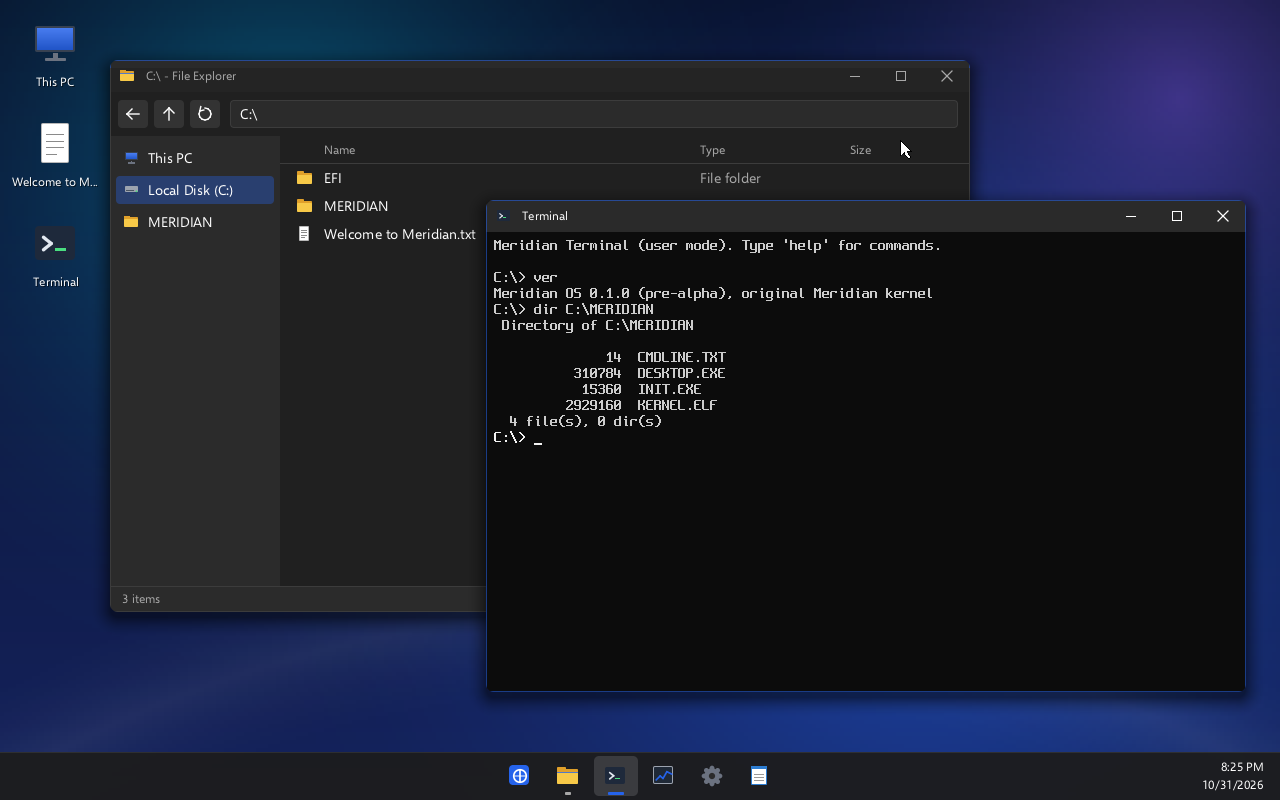
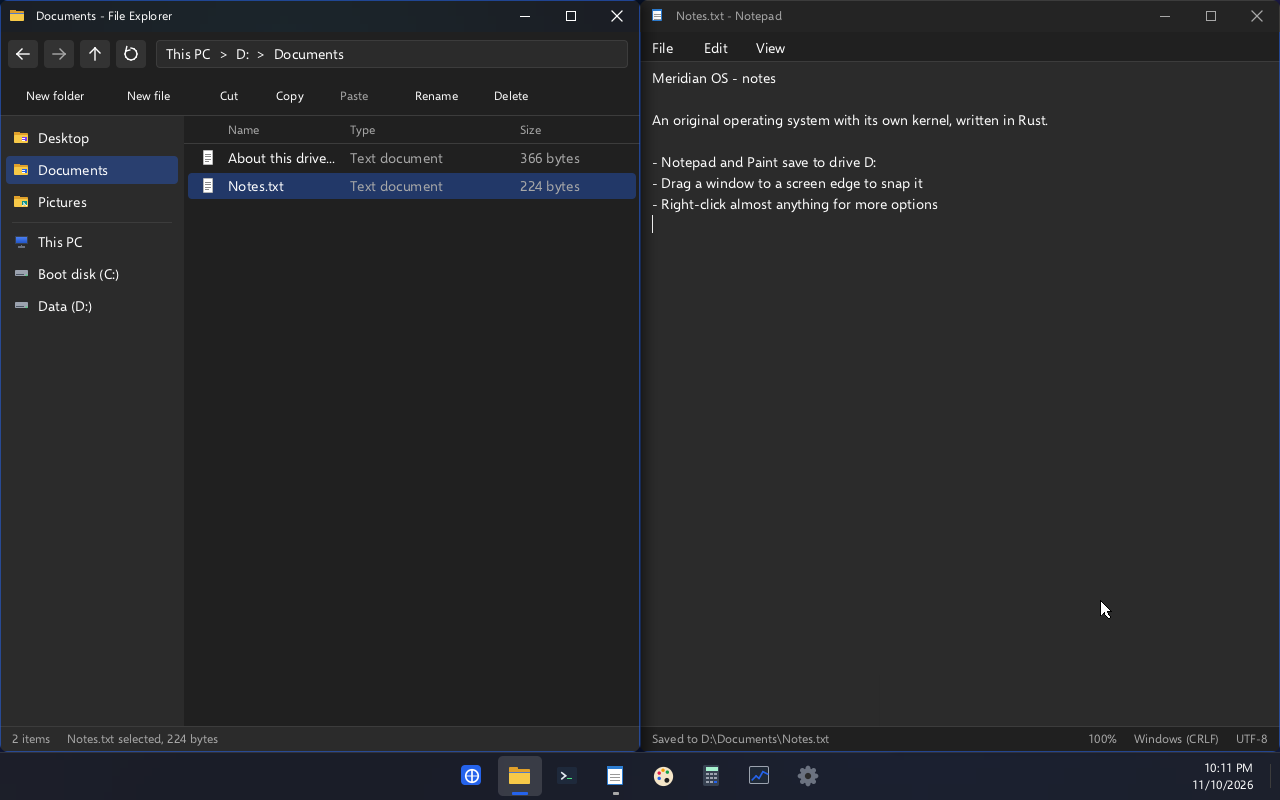
Document the data drive, the new apps and the richer desktop
STATUS, ROADMAP, ARCHITECTURE (storage write design), TESTING (the new
walk-through and fatcheck), README (screenshots, status table, data
disk), the welcome file and CLAUDE.md now describe what Meridian does
today. The README gets a Start menu screenshot next to the desktop.

diff --git a/tools/mbuild.py b/tools/mbuild.py
@@ -322,17 +322,21 @@ WELCOME_TEXT = """Welcome to Meridian OS!
 
 You are reading this file from the boot disk through Meridian's own AHCI
 disk driver, GPT partition reader and FAT32 file system (with long file
-names), all written from scratch for this kernel. Storage is read-only for
-now, so nothing here can change a disk.
+names), all written from scratch for this kernel. This boot drive (C:) is
+read-only; your own files go on drive D:, Meridian's data drive.
 
 Things to try on the desktop:
   - Open Start (the taskbar button or the Windows key) and type to search.
-  - File Explorer: browse C:\\ and open files and programs.
-  - Terminal: dir, type, ps, threads, mem, run C:\\MERIDIAN\\INIT.EXE
-  - Task Manager: live processes, kernel threads and processor use.
-  - Settings: dark or light mode, accent colour, wallpaper, taskbar alignment.
-  - Drag a window by its title bar; double-click the title bar to maximise.
-  - Alt+Tab switches windows, Alt+F4 closes one.
+  - Notepad: write something and press Ctrl+S to save it in D:\\Documents.
+  - Paint: draw a picture and save it; Photos shows it in its gallery.
+  - File Explorer: new folders, rename (F2), copy and paste, delete.
+  - Right-click the desktop, a file, a taskbar button or a title bar.
+  - Drag a window to the left or right edge of the screen to snap it, or
+    use Windows key + arrow keys. Drag an edge to resize.
+  - Click the clock for the calendar; Windows key + L locks the screen.
+  - Terminal: help, dir, mkdir, copy, move, del, drives, ps, threads, mem
+  - Calculator, Clock (stopwatch and timer), Minesweeper and 2048.
+  - Settings: dark or light mode, accent colour, wallpaper (saved on D:).
   - Start > Power shuts Meridian down or restarts it.
 
 In the kernel's text shell (boot with "nodesktop", or type in the serial

diff --git a/docs/STATUS.md b/docs/STATUS.md
@@ -52,28 +52,56 @@ the self tests or was verified manually in QEMU as noted.
 * Desktop (`system/desktop`, a user-mode PE32+ program started at boot from
   `C:\MERIDIAN\DESKTOP.EXE`): it takes over the screen, keyboard and mouse
   and draws everything itself (software compositor with damage tracking,
-  TrueType text, rounded corners and shadows). Working: window manager
-  (focus, z-order, drag, minimise/maximise/close, double-click title to
-  maximise, Alt+Tab, Alt+F4), taskbar with pinned and running apps and a
-  live clock, Start menu with search, pinned apps, recommended files from
-  the disk and Shut down/Restart, desktop icons, mouse wheel scrolling. Apps:
-  File Explorer (drives, folders, opening text files and programs), Terminal
-  (dir, cd, type, run, ps, threads, mem, date, ...), Notepad (opens text
-  files; edits stay in memory because storage is read-only), Task Manager
-  (processes, live CPU graph and memory, kernel threads), Settings (light/dark
-  mode, accent colour, wallpaper, taskbar alignment; not saved across
-  restarts) and About. Verified by the `ui` walk-through in CI. When the
-  desktop exits, the kernel console takes the screen back.
+  TrueType text, rounded corners, shadows, and a "Mica" material: the
+  taskbar, Start menu, flyouts, menus and the focused title bar are drawn
+  over a blurred copy of the wallpaper). Shell: window manager (focus,
+  z-order, drag, resize from any edge or corner, minimise/maximise/close,
+  double-click title to maximise, snap to the left/right half or maximise by
+  dragging to a screen edge, Win+arrows, Alt+Tab, Alt+F4), taskbar with
+  pinned and running apps, tooltips, a live clock with a calendar flyout and
+  a Show desktop button; Start menu with search over apps and files,
+  pinned apps, recommended files and Lock/Restart/Shut down; desktop icons
+  including the files in `D:\Desktop`; right-click menus on the desktop,
+  icons, taskbar buttons, title bars and inside apps; notifications; a lock
+  screen (Win+L; there are no accounts, so no password); keyboard shortcuts
+  Win, Win+D/E/R/L/I, Ctrl+Shift+Esc; settings saved in
+  `D:\Meridian\settings.ini`.
+* Desktop apps (all using real system calls): File Explorer (quick access,
+  drives with free space, folders, open with the right app, new
+  folder/file, cut/copy/paste including whole folders, rename in place,
+  delete with confirmation, back/forward/up, type-to-select), Notepad
+  (open, save, save as, selection with mouse and keyboard, clipboard,
+  undo, time/date, zoom, keeps CRLF or LF, asks to save on close), Terminal
+  (dir, cd, type, mkdir, del, rmdir, copy, move, ren, `echo text > file`,
+  drives, run, open, starting apps, ps, threads, mem, uptime, date; command
+  history and paste), Calculator (standard operations, percent, square,
+  square root, reciprocal, history, keyboard input), Paint (pencil, brush,
+  eraser, line, rectangle, ellipse, fill, colour picker, 20-colour palette,
+  sizes, undo/redo, open and save 24-bit BMP), Photos (gallery of a folder,
+  viewer with next/previous, fit/actual size, Edit in Paint), Clock (analog
+  and digital clock, stopwatch with laps, countdown timer with a
+  notification), Task Manager (processes, live CPU graph and memory, kernel
+  threads), Settings (light/dark mode, accent colour, wallpaper, taskbar
+  alignment, drive usage, system information), Minesweeper (three levels,
+  flags, chording) and 2048. Verified by the `ui` walk-through in CI. When
+  the desktop exits, the kernel console takes the screen back.
 * PE32+ loader: header validation, section mapping with per-section
   protections, DIR64 base relocations (images are loaded 256 MiB above their
   preferred base, so relocation is always exercised), stack sizing.
 * Native runtime (`runtime/rt`) and the first program `init.exe`
   (`system/init`), read from `C:\MERIDIAN\INIT.EXE` and run at every boot
   (the boot manager's copy is the fallback).
-* Storage (read-only by design): AHCI SATA driver (IDENTIFY, 48-bit DMA
-  reads through a 64 KiB bounce buffer, polled completion, BIOS/OS handoff),
-  GPT and MBR partition discovery, FAT32 file system with long file names,
-  short-name aliases and corruption checks, drive letters from `C:`.
+* Storage: AHCI SATA driver (IDENTIFY, 48-bit DMA reads and writes through
+  a 64 KiB bounce buffer, cache flush, polled completion, BIOS/OS handoff),
+  GPT and MBR partition discovery, FAT32 with long file names, short-name
+  aliases and corruption checks, drive letters from `C:`. Writing (create,
+  replace, delete, rename/move, folders) is allowed only on partitions with
+  Meridian's own data-partition type GUID, so a disk prepared by another
+  operating system is never modified; the boot drive `C:` stays read-only.
+  The build attaches such a data disk as `D:` (`build/data.img`, kept
+  between runs). After every test run, `tools/fatcheck.py` checks the data
+  disk independently (FAT copies, chains, cross-links, lost clusters, long
+  names, "." and "..").
 * Kernel shell: help, ver, cpu, mem, acpi, pci, irq, threads, ps, run, disks,
   vol, dir, type, uptime, log, clear, selftest, reboot, shutdown, crash.
 * Build: reproducible GPT/FAT32 image writer, QEMU runner, self-test harness,
@@ -85,10 +113,10 @@ the self tests or was verified manually in QEMU as noted.
 ## Not implemented yet
 
 Multi-threaded user processes, object namespace and access checks, PE
-imports/TLS, writing to disks, NVMe, NTFS, USB, networking, audio, GPU
-acceleration, Windows compatibility (Win32), windows for programs other than
-the built-in apps, saving settings, user accounts, installer. See
-[ROADMAP.md](ROADMAP.md).
+imports/TLS, NTFS, NVMe, USB, networking, audio, GPU acceleration, Windows
+compatibility (Win32), windows for programs other than the built-in apps,
+user accounts and passwords, a recycle bin, PNG/JPEG images, installer.
+See [ROADMAP.md](ROADMAP.md).
 
 ## Known limitations
 
@@ -105,9 +133,15 @@ the built-in apps, saving settings, user accounts, installer. See
   driver.
 * Without the vmmouse protocol (real hardware, or `novmmouse`), the PS/2
   mouse is relative and has no wheel.
-* Storage is read-only and polled (no AHCI interrupts or command queuing);
-  only FAT32 is recognised, so the EFI system partition becomes `C:`;
-  optical drives are skipped.
+* Storage is polled (no AHCI interrupts or command queuing); only FAT32 is
+  recognised, so the EFI system partition becomes `C:`; only Meridian data
+  partitions are writable (by design); files are read and written whole
+  (64 MiB per write, 256 MiB per read); optical drives are skipped.
+* Deleting is permanent (there is no recycle bin yet); Explorer asks first.
+* Paint saves and Photos opens 24-bit BMP only (no PNG/JPEG decoder yet).
+* Under QEMU on Windows, guest timer interrupts arrive at the host's timer
+  resolution (15.6 ms unless another program raises it), so short timeouts
+  are coarse; the kernel's clock and the desktop cope with late ticks.
 * Every TLB shootdown interrupts all other processors (no tracking of which
   processors might cache the address).
 * The direct map uses 2 MiB pages across all physical memory below the top of
@@ -145,9 +179,13 @@ None open. Fixed during bring-up (2026-10-31):
 
 ## Failed tests
 
-None. Latest local runs: 48/48 self tests passed (debug and release,
-4 vCPUs); the desktop walk-through (`mbuild.py ui`, 11 steps ending in
-Start > Shut down) passed in debug and release.
+None. Latest local runs (2026-11-10): 52/52 self tests passed (debug and
+release, 4 vCPUs) with the test data disk consistent afterwards; the
+desktop walk-through (`mbuild.py ui`, 15 steps through every major app,
+ending in Start > Power > Shut down) passed with the absolute and the
+relative pointer. The clock test was widened from 50 ms to 200 ms after it
+failed on a Windows host at the default 15.6 ms timer resolution (the
+previous commit failed the same way on the same host).
 
 ## Real hardware tested
 

diff --git a/README.md b/README.md
@@ -10,9 +10,11 @@ telemetry.
 It is **not** a Linux distribution, not a Windows derivative and not a themed
 desktop on top of another OS. Every line of the kernel is original.
 
-![The Meridian desktop in QEMU: File Explorer and Terminal](docs/images/desktop.png)
+![The Meridian desktop in QEMU: File Explorer and Notepad snapped side by side](docs/images/desktop.png)
 
-## Status: early kernel and first desktop (pre-alpha)
+![The Start menu with search, pinned apps and recommended files](docs/images/start.png)
+
+## Status: early kernel and a working desktop (pre-alpha)
 
 Meridian is at the very beginning of a long road. What exists today, all
 tested on every commit in QEMU with UEFI firmware:
@@ -31,21 +33,24 @@ tested on every commit in QEMU with UEFI firmware:
 | Events, semaphores, mutexes, timed waits, sleep | ✅ working |
 | Multiprocessor: all cores started, IPIs, TLB shootdown, multicore scheduling | ✅ working |
 | User mode: isolated processes, system calls, handles, PE32+ loader | ✅ working (first native program runs) |
-| Storage: AHCI SATA driver, GPT/MBR partitions, FAT32 with long names, drive letters (read-only) | ✅ working |
+| Storage: AHCI SATA driver, GPT/MBR partitions, FAT32 with long names, drive letters | ✅ working |
+| Saving files: FAT32 writes on Meridian's own data partitions (drive D:) | ✅ working (QEMU) |
 | PS/2 mouse (absolute in VMs), real-time clock | ✅ working |
-| Desktop: windows, taskbar, Start menu with search, File Explorer, Terminal, Notepad, Task Manager, Settings | ✅ working (QEMU) |
-| Writable storage, NTFS, NVMe, USB | 🚧 next |
+| Desktop: Mica taskbar and Start menu with search, resizable and snappable windows, right-click menus, notifications, calendar, lock screen | ✅ working (QEMU) |
+| Apps: File Explorer, Notepad, Terminal, Calculator, Paint, Photos, Clock, Task Manager, Settings, Minesweeper, 2048 | ✅ working (QEMU) |
+| NTFS, NVMe, USB | 🚧 next |
 | Win32 subsystem, windows for other programs, networking, GPU… | 📋 planned |
 
 At every boot the kernel runs `init.exe` and then the desktop
 (`DESKTOP.EXE`), both PE32+ programs read from the boot disk and running in
 ring 3; a program that crashes is terminated without affecting the kernel.
-The desktop is real, not a mock-up: the File Explorer lists the actual disk,
-Task Manager shows the kernel's live threads and processor use, Settings
-changes the theme, and Start > Power shuts the machine down. Its apps are
-built into the desktop program for now. Nothing runs Windows applications
-yet (the Win32 subsystem does not exist), files cannot be saved (storage is
-read-only), and no real hardware has been tested yet. See [docs/STATUS.md](docs/STATUS.md) for the
+The desktop is real, not a mock-up: File Explorer works on the actual
+disks, Notepad and Paint save to drive D:, Task Manager shows the kernel's
+live threads and processor use, Settings are remembered, and Start > Power
+shuts the machine down. Its apps are built into the desktop program for
+now. Nothing runs Windows applications yet (the Win32 subsystem does not
+exist), and no real hardware has been tested yet. Meridian only ever writes
+to partitions of its own type, so it cannot change another system's disk. See [docs/STATUS.md](docs/STATUS.md) for the
 precise feature list, known bugs and test results, and
 [docs/ROADMAP.md](docs/ROADMAP.md) for the plan.
 
@@ -68,9 +73,12 @@ python tools/mbuild.py run --release
 ```
 
 That builds the boot manager, kernel and user programs, writes a bootable
-GPT disk image to `build/meridian.img` and boots it in a QEMU window. Build
-output stays small (under 20 MB in `target/` plus the 48 MB disk image) and
-`python tools/mbuild.py clean` removes all of it. The kernel's own text
+GPT disk image to `build/meridian.img` and boots it in a QEMU window, with a
+second virtual disk, `build/data.img`, as drive D: for your files. The data
+disk is created once and kept between runs and rebuilds (delete it to start
+over). Build output stays small (under 25 MB in `target/` plus the 48 MB
+boot image and 64 MB data disk), and `python tools/mbuild.py clean`
+removes everything except your data disk. The kernel's own text
 shell is still there: type its commands (`help`, `threads`, `cpu`, `mem`,
 `disks`, ...) in the terminal that started QEMU, or boot with
 `--cmdline nodesktop` to get it on screen.

diff --git a/docs/ROADMAP.md b/docs/ROADMAP.md
@@ -38,7 +38,7 @@ Update this file whenever a milestone moves.
 * ⬜ PCIe ECAM, MSI/MSI-X, interrupt-driven I/O
 * ✅ Storage: AHCI SATA (read-only, polled); ⬜ NVMe, virtio-blk, writes
 * ✅ Partitions: GPT and MBR primary entries
-* ✅ Volumes with drive letters; FAT32 read-only with long file names; ⬜ FAT write, FAT12/16, exFAT; NTFS read-only first
+* ✅ Volumes with drive letters; FAT32 with long file names; ✅ FAT32 writes on Meridian data partitions (independently checked by tools/fatcheck.py); ⬜ FAT12/16, exFAT; NTFS read-only first
 * ✅ PS/2 mouse (absolute "vmmouse" mode under hypervisors); CMOS real-time clock
 * ⬜ USB: xHCI, HID keyboard/mouse
 * ⬜ ACPI AML interpreter (evaluate a vetted existing implementation vs. own)
@@ -57,8 +57,8 @@ Update this file whenever a milestone moves.
 * ✅ GOP framebuffer handed to a user-mode program (display ownership, input capture); ⬜ display driver interface; virtio-gpu
 * ✅ Software compositor (damage tracking, shadows, rounded corners) + window manager inside the desktop process; ⬜ window-system protocol so other processes can open windows
 * ✅ TrueType rasterizer and UI drawing in Rust (Selawik font, OFL); light/dark themes, accent colours, wallpapers; ⬜ shared UI toolkit library for other programs; ⬜ saving settings
-* ✅ Desktop shell: taskbar, Start menu with search, Alt+Tab, Alt+F4, desktop icons, power menu; ⬜ tray, notifications, snapping, resizing by the window edges, virtual desktops, lock/login screens
-* ✅ File Explorer, Terminal, Notepad, Task Manager, Settings, About (every control wired to real functionality); ⬜ saving files (needs writable storage)
+* ✅ Desktop shell: Mica taskbar and Start menu (search over apps and files), Alt+Tab, Alt+F4, desktop icons, power menu, notifications, snapping, resizing, right-click menus, calendar flyout, lock screen, Win+key shortcuts, saved settings; ⬜ tray, virtual desktops, login with accounts, animations
+* ✅ File Explorer (file operations), Terminal, Notepad (save), Calculator, Paint, Photos, Clock, Task Manager, Settings, Minesweeper, 2048 (every control wired to real functionality); ⬜ recycle bin, PNG/JPEG, more apps
 
 ## Phase 7 — Windows compatibility ⬜
 
@@ -97,14 +97,14 @@ Update this file whenever a milestone moves.
 
 ## Next session starts here
 
-1. Desktop polish: resize windows by their edges, window snapping, keyboard
-   focus inside apps (Tab), a scroll bar in Explorer and Notepad.
-2. A window-system protocol (shared-memory surfaces + an event channel) so
+1. A window-system protocol (shared-memory surfaces + an event channel) so
    programs other than the built-in apps can open windows; then move the
-   UI drawing code into a shared library.
-3. User-mode thread creation and multi-threaded process termination.
-4. PE imports (a native `msys.dll` loaded from `C:\MERIDIAN`), which is
+   UI drawing code into a shared library and the apps into their own
+   processes.
+2. User-mode thread creation and multi-threaded process termination.
+3. PE imports (a native `msys.dll` loaded from `C:\MERIDIAN`), which is
    also the first step towards loading Win32 DLLs.
-5. Writable storage (FAT32 writes on a separate test disk image first) so
-   Notepad and Settings can save; then MSI interrupts for AHCI, NVMe and USB
-   (xHCI + HID + mass storage) to reach real hardware.
+4. Recycle bin, PNG/JPEG decoding, file handles (open/read/write ranges)
+   instead of whole-file calls.
+5. MSI interrupts for AHCI, NVMe and USB (xHCI + HID + mass storage) to
+   reach real hardware.

diff --git a/docs/ARCHITECTURE.md b/docs/ARCHITECTURE.md
@@ -98,18 +98,36 @@ the kernel shell). When the process exits or crashes, the kernel takes the
 screen and keyboard back. Inside the process:
 
 * `gfx.rs` — canvases, clipping, alpha blending, anti-aliased lines,
-  rounded rectangles, soft shadows;
+  rounded rectangles, soft shadows, scaling, the blur behind "Mica";
 * `font.rs` — a TrueType parser and rasterizer (quadratic outlines,
   signed-area coverage accumulation) with a glyph cache, plus the Spleen
   bitmap font for the Terminal;
-* `ui.rs` — theme colours, vector icons, wallpapers, the pointer;
-* `apps.rs` — File Explorer, Terminal, Notepad, Task Manager, Settings,
-  About, all using real system calls (directory listing, file reading,
-  process creation, thread/process queries, time, power);
-* `main.rs` — window manager, taskbar, Start menu, desktop icons and the
-  compositor: every window has its own surface, damaged screen areas are
-  recomposed into a back buffer and copied to the framebuffer, and the
-  pointer is drawn directly on the framebuffer.
+* `ui.rs` — theme colours (and their settings-file form), vector icons,
+  wallpapers, the pointer;
+* `widgets.rs` — text field and prompt bar; `bmp.rs` — BMP reading/writing;
+* `apps.rs` — what apps share with the shell (the `App` trait, actions
+  such as opening apps, menus and notifications, the clipboard), plus
+  Terminal, Task Manager, Settings and About; `explorer.rs`, `notepad.rs`,
+  `calc.rs`, `paint.rs`, `photos.rs`, `clock.rs`, `games.rs` — the other
+  apps, all using real system calls (files, processes, threads, time,
+  power);
+* `main.rs` — the shell: window manager, taskbar, Start menu, flyouts,
+  menus, notifications, lock screen, desktop icons and the compositor:
+  every window has a title surface and a content surface, damaged screen
+  areas are recomposed into a back buffer and copied to the framebuffer,
+  and the pointer is drawn directly on the framebuffer.
+
+## Storage writes
+
+Writing is opt-in per partition: `io::partition` accepts writes only for
+partitions whose GPT type is Meridian's own data-partition GUID
+(7A3E9C42-5B1D-4E8F-9A6C-3D2B1F0E8C57). No other system creates such
+partitions, so whatever disk Meridian runs on, it cannot modify data that
+belongs to another operating system. The FAT32 driver orders writes so an
+interruption loses at most the operation in progress (data, then cluster
+chain, then directory entry, then freeing old clusters), keeps both FAT
+copies identical, and marks the FSInfo free count as unknown on the first
+write, as the specification allows.
 
 ## Executable format
 

diff --git a/CLAUDE.md b/CLAUDE.md
@@ -25,11 +25,13 @@ before starting; update both when a milestone moves.
 
 - `boot/` UEFI boot manager (own UEFI bindings), `shared/bootinfo/` handoff ABI
 - `kernel/src/{arch/x86_64,hal,ke,mm,ob,ps,io,fs,drivers}` + `shell.rs`, `selftest.rs`, `panic.rs`
-- Storage is read-only by design (no write path exists); AHCI in `drivers/ahci.rs`, FAT32 in `fs/fat.rs`
+- Storage writes only on Meridian data partitions (GPT type 7A3E9C42-…, `io::partition::MERIDIAN_DATA_TYPE`); C: stays read-only. AHCI in `drivers/ahci.rs`, FAT32 in `fs/fat.rs`
+- Data disk D: = `build/data.img` (kept between runs, never overwritten by builds; `clean` keeps it). Tests use fresh `build/<command>-data.img` and `tools/fatcheck.py` checks them
 - `run-meridian.cmd` is the one-click way for the user to try a release build; `demo-meridian.cmd` / `mbuild.py demo` types a guided tour into a visible window (steps in `DEMO_STEPS`)
 - Don't rebuild while the user has a Meridian window open: `build/meridian.img` is in use by that VM
 - `shared/abi/` syscall numbers + NTSTATUS; `runtime/rt/` native user runtime (has a heap: `alloc` works); `system/init/` first program
-- `system/desktop/` the desktop (user mode, Rust): `main.rs` window manager/taskbar/Start, `apps.rs` built-in apps, `gfx.rs`, `font.rs` (TrueType), `ui.rs`; started by the kernel from `C:\MERIDIAN\DESKTOP.EXE` unless `nodesktop`
+- `system/desktop/` the desktop (user mode, Rust): `main.rs` shell (windows, taskbar, Start, menus, toasts, lock), `apps.rs` App trait + Terminal/TaskManager/Settings/About, one file per other app, `widgets.rs`, `bmp.rs`, `gfx.rs`, `font.rs` (TrueType), `ui.rs`; started by the kernel from `C:\MERIDIAN\DESKTOP.EXE` unless `nodesktop`
+- Selawik has no glyphs for many symbols (√ ⌫ − arrows ✓): draw them as vector shapes
 - `exec`/`demo` boot with `nodesktop` (they type into the kernel shell)
 - User programs: PE32+ via `cargo rustc --target x86_64-pc-windows-msvc` + rust-lld (see `USER_PROGRAMS` in mbuild.py)
 - `tools/mbuild.py` build/run/test/screenshot; writes GPT+FAT32 image itself

diff --git a/docs/TESTING.md b/docs/TESTING.md
@@ -91,15 +91,22 @@ QEMU + OVMF from apt):
    QEMU's QMP `send-key`) and requires the VM to power itself off through
    ACPI, which exercises the keyboard driver, I/O APIC routing, the shell and
    ACPI S5 end to end
-6. desktop walk-through: `mbuild.py ui --expect-poweroff` boots the desktop
-   and drives it through QMP with the absolute (vmmouse) pointer and the
-   PS/2 keyboard: opens the Start menu, searches, launches Task Manager and
-   its Performance tab, opens the welcome file from a desktop icon, browses
-   `C:\` in File Explorer, runs `dir` in the Terminal, closes it with
-   Alt+F4, switches Settings to light mode, maximises a window and finally
-   clicks Start > Power > Shut down, which must power the VM off. A
-   screenshot of each step goes to `build/ui/`, and the run fails if the
-   kernel log reports a crash
+6. desktop walk-through: `mbuild.py ui --expect-poweroff --cmdline
+   novmmouse` boots the desktop and drives it through QMP with the PS/2
+   mouse and keyboard: Start menu and search, Task Manager, Notepad (types
+   and saves a file to D:), File Explorer, Terminal (`dir`), Calculator,
+   Paint (draws and saves a BMP), Photos (shows it), the calendar, the
+   desktop's right-click menu, the lock screen, and finally Start > Power >
+   Shut down, which must power the VM off. A screenshot of each step goes
+   to `build/ui/`; the run fails if the kernel log reports a crash or if
+   `tools/fatcheck.py` finds the data disk inconsistent. (CI uses the
+   relative pointer because Ubuntu 24.04's QEMU 8.2 misplaces the vmmouse
+   pointer; locally the default is the absolute pointer.)
+
+The self-test run (`mbuild.py test`) also attaches a fresh data disk: four
+FAT write tests create, read back, overwrite, rename, move and delete files
+and folders on it (including 60 long names in one folder), and
+`tools/fatcheck.py` must find it consistent afterwards.
 
 Logs, screenshots and the disk image are uploaded as workflow artifacts.
 
